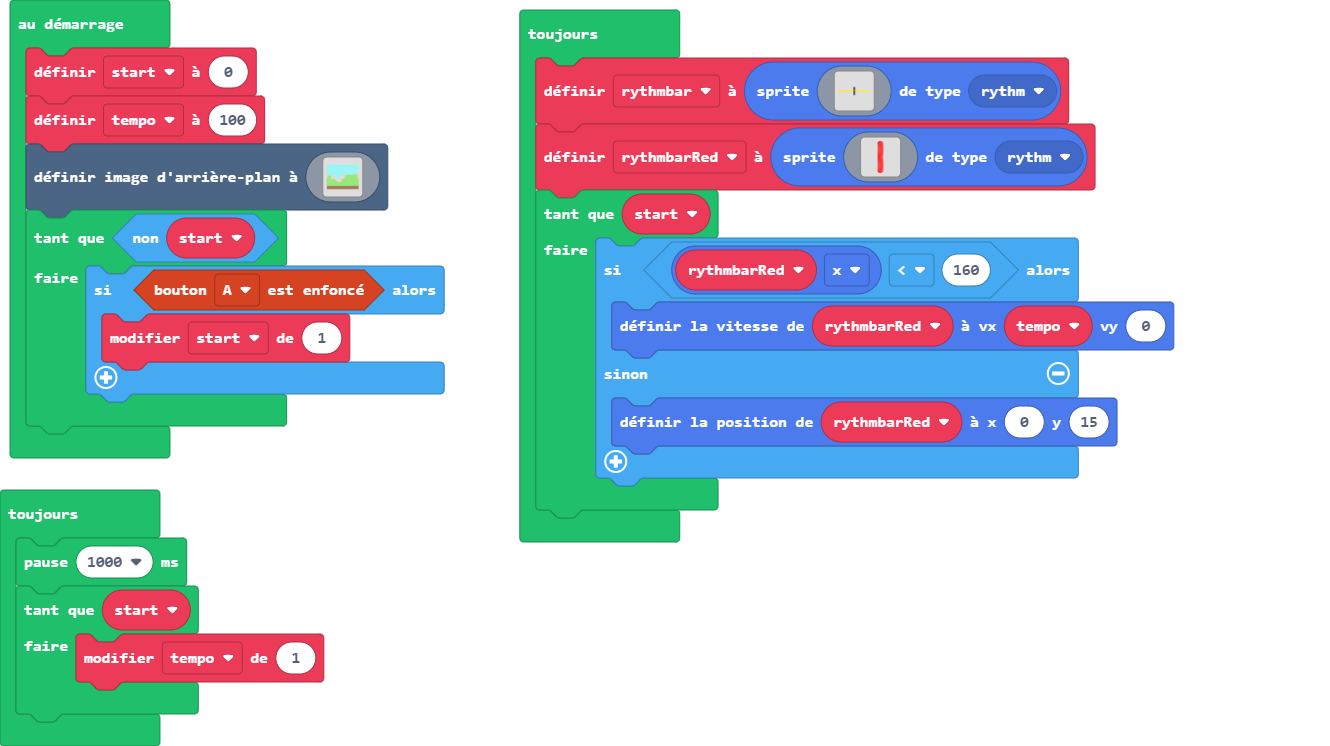
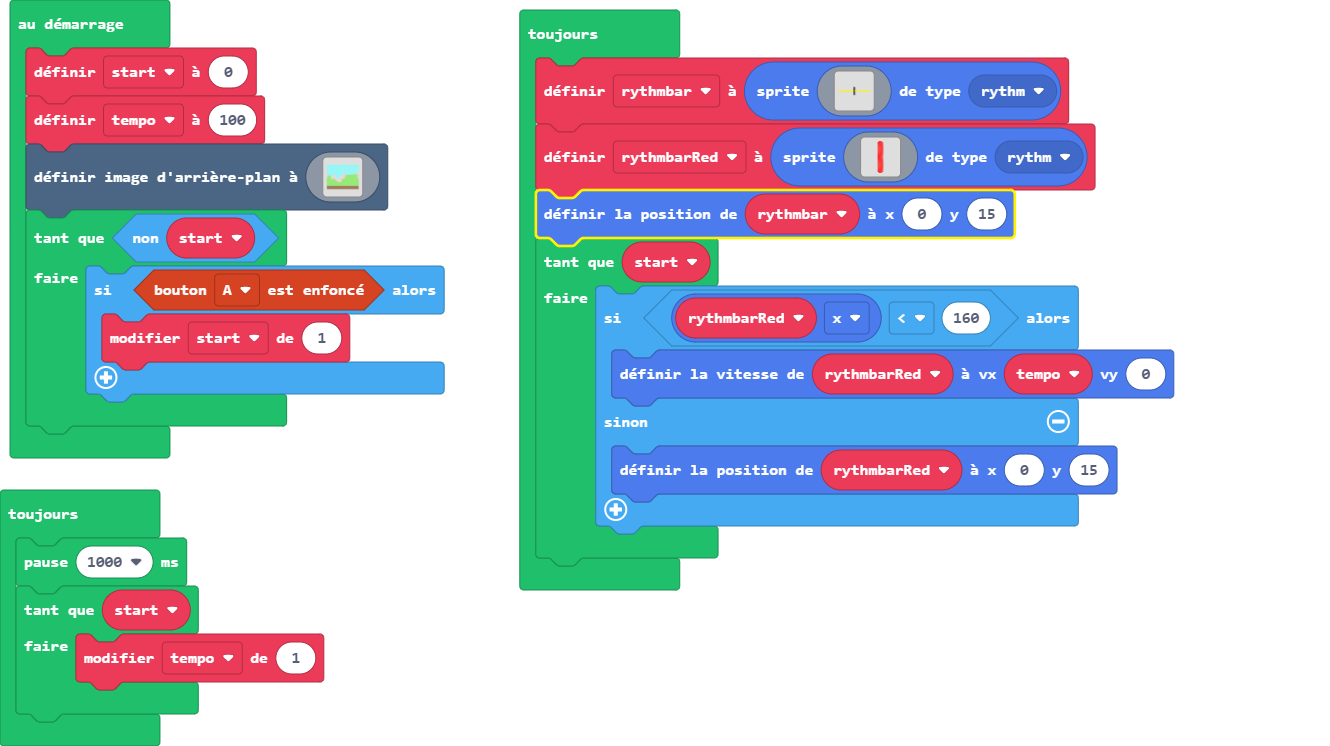
Mise à jour main.blocks, main.ts

Changed region(s): [[0.3699, 0.2466, 0.894, 0.8016]]

diff --git a/main.ts b/main.ts
@@ -135,6 +135,7 @@ while (!(start)) {
 forever(function () {
     rythmbar = sprites.create(assets.image`ref_bar`, SpriteKind.rythm)
     rythmbarRed = sprites.create(assets.image`myImage2`, SpriteKind.rythm)
+    rythmbar.setPosition(0, 15)
     while (start) {
         if (rythmbarRed.x < 160) {
             rythmbarRed.setVelocity(tempo, 0)
